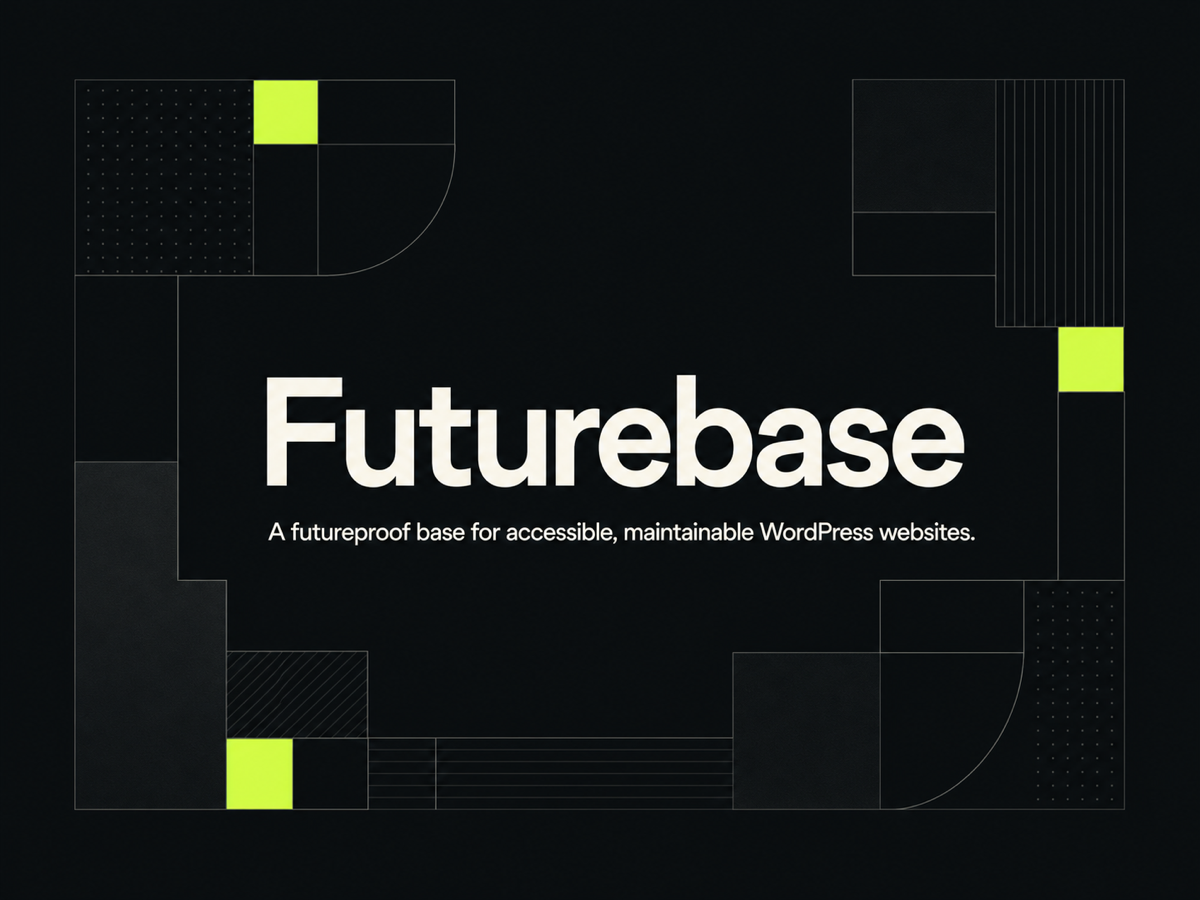
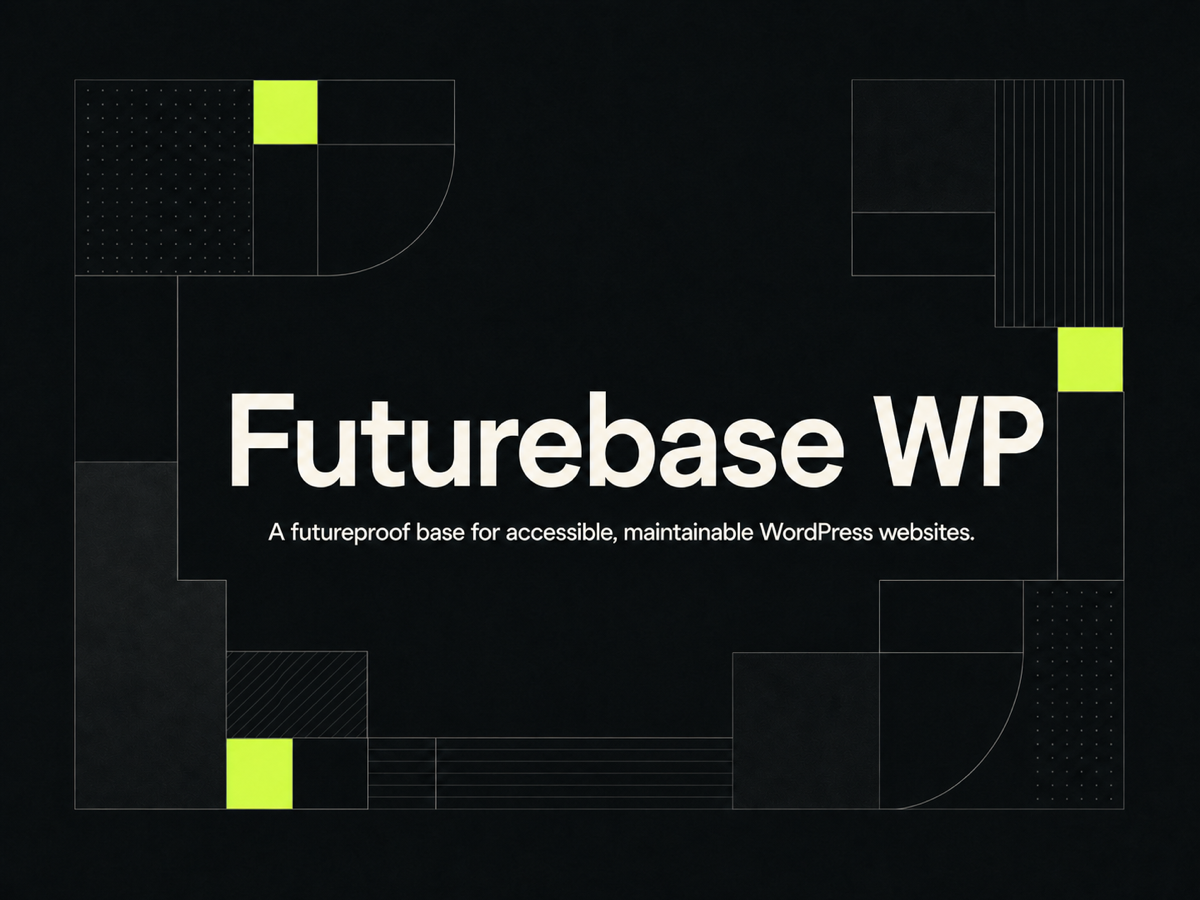
refactor: position WordPress product as Futurebase WP

Changed region(s): [[0.185, 0.4044, 0.8942, 0.5911], [0.74, 0.5911, 0.8017, 0.6222], [0.2467, 0.5911, 0.3083, 0.6222]]

diff --git a/style.css b/style.css
@@ -1,6 +1,6 @@
 /*
-Theme Name: Futurebase
-Theme URI: https://github.com/studiokicobi/futurebase
+Theme Name: Futurebase WP
+Theme URI: https://github.com/studiokicobi/futurebase-wp
 Author: Colin Lewis
 Author URI: https://colinlewis.se
 Description: A modern Full Site Editing foundation for managed/VPS WordPress hosting and current local development stacks. Targets PHP 8.3+ and WordPress 6.9+; not intended as a broad shared-hosting compatibility base.

diff --git a/functions.php b/functions.php
@@ -1,6 +1,6 @@
 <?php
 /**
- * Futurebase theme functions.
+ * Futurebase WP theme functions.
  *
  * @package futurebase
  */

diff --git a/docs/futurebase-company-site.md b/docs/futurebase-company-site.md
@@ -1,30 +1,48 @@
-# Futurebase company-site integration brief
+# Futurebase family and product-page integration brief
 
-Use [futurebase.md](futurebase.md) as the canonical product narrative. This
-brief adapts that source for the company site; it does not create a second set
-of product claims.
+Futurebase is the house brand. Futurebase WP is its WordPress product, alongside
+Futurebase Statamic and later products such as Futurebase Blocks and Futurebase
+AI. Use [futurebase-wp.md](futurebase-wp.md) as the canonical narrative for the
+WordPress product; this brief defines how that narrative fits into the broader
+company-site architecture.
 
-## Page metadata
+## Recommended information architecture
 
-- **Page title:** Futurebase — an accessible, maintainable WordPress foundation
-- **Meta description:** Futurebase is our futureproof Full Site Editing foundation for accessible, maintainable WordPress websites and evidence-driven delivery.
+### Family page: Futurebase
+
+- **Purpose:** Explain the shared product philosophy and route visitors to the
+  platform or capability that fits their project.
+- **Page title:** Futurebase — foundations for better digital products
+- **Positioning:** A family of in-house foundations, tools, and delivery systems
+  for accessible, maintainable digital work.
+- **Product navigation:** Futurebase WP, Futurebase Statamic, and clearly marked
+  future product slots for Blocks and AI. Do not present an unreleased product
+  as available.
+- **Primary CTA:** Talk to us about a project.
+
+The family page should stay platform-neutral. Accessibility, maintainability,
+performance discipline, and evidence-driven delivery are the common story;
+WordPress-specific architecture belongs on the Futurebase WP page.
+
+### Product page: Futurebase WP
+
+- **Page title:** Futurebase WP — an accessible, maintainable WordPress foundation
+- **Meta description:** Futurebase WP is our futureproof Full Site Editing foundation for accessible, maintainable WordPress websites and evidence-driven delivery.
 - **Primary CTA:** Talk to us about a WordPress project.
 
-## Recommended page structure
+#### Hero
 
-### Hero
-
-**Futurebase**
+**Futurebase WP**
 
 **A futureproof base for accessible, maintainable WordPress websites.**
 
-Futurebase is the in-house WordPress foundation behind our client work: a
+Futurebase WP is the in-house WordPress foundation behind our client work: a
 disciplined block-theme system, a reusable section library, and a delivery
 workflow that verifies quality continuously.
 
 CTA: **Talk to us about a WordPress project.**
 
-### Why it matters
+#### Why it matters
 
 - **Accessible by default.** Automated accessibility checks are part of the
   build and release workflow, with manual review included in project delivery.
@@ -33,37 +51,52 @@ CTA: **Talk to us about a WordPress project.**
   honest without publishing local-only scores as marketing claims.
 - **Maintainable for editors and developers.** Native blocks, curated editing,
   and design tokens reduce lock-in and keep design decisions consistent.
-- **Designed for where WordPress is going.** Futurebase uses Full Site Editing,
-  `theme.json`, patterns, and current WordPress APIs instead of a parallel page
-  builder stack.
+- **Designed for where WordPress is going.** Futurebase WP uses Full Site
+  Editing, `theme.json`, patterns, and current WordPress APIs instead of a
+  parallel page-builder stack.
 
-### How a project starts
+#### How a project starts
 
 Each awarded project receives its own private repository, theme identity, and
-version history. Futurebase supplies the tested foundation and lifecycle
-tooling; the delivered theme is branded for the client and carries only a
-single “Built on Futurebase” provenance note.
+version history. Futurebase WP supplies the tested WordPress foundation;
+Futurebase lifecycle tooling supplies the platform-neutral lead, promotion,
+baseline, metrics, and synchronization workflow. The delivered theme carries
+only one “Built on Futurebase WP” provenance note.
 
-### Evidence, not score theatre
+#### Evidence, not score theatre
 
-Futurebase captures baselines, runs regression gates, and supports before/after
-project reporting. Publish measurements only from an agreed public test target
-with its methodology and date. Never present local wp-env or CI regression
-numbers as public performance guarantees.
+Futurebase WP captures baselines, runs regression gates, and supports
+before/after project reporting. Publish measurements only from an agreed public
+test target with its methodology and date. Never present local wp-env or CI
+regression numbers as public performance guarantees.
+
+### Product page: Futurebase Statamic
+
+Give Futurebase Statamic its own canonical product narrative and
+platform-specific proof. Reuse the family principles and page architecture,
+not the WordPress copy or evidence.
+
+### Future product pages: Blocks and AI
+
+Reserve navigation and URL structure only when useful. Publish Futurebase
+Blocks and Futurebase AI pages when each offer has a concrete scope and
+evidence base.
 
 ## Assets
 
 - WordPress/theme screenshot: `screenshot.png` — 1200×900.
-- OpenGraph/social image: `docs/assets/futurebase-social.png` — 1200×630.
-- Both assets use the canonical tagline and a high-contrast charcoal, warm
-  white, and lime treatment.
+- OpenGraph/social image: `docs/assets/futurebase-wp-social.png` — 1200×630.
+- Both assets use the Futurebase WP wordmark, canonical tagline, and a
+  high-contrast charcoal, warm-white, and lime treatment.
 
 ## Editorial boundaries
 
-- Describe Futurebase as an in-house foundation, not a theme marketplace
+- Use **Futurebase** for the family and shared lifecycle system.
+- Use **Futurebase WP** for the WordPress foundation and its evidence.
+- Describe Futurebase WP as an in-house foundation, not a theme-marketplace
   product or page builder.
-- Do not imply that the source repository is public.
-- Do not promise universal shared-hosting compatibility; the stated baseline
-  is PHP 8.3+ and WordPress 6.9+.
+- Do not imply that any source repository is public.
+- Do not promise universal shared-hosting compatibility; the stated WordPress
+  baseline is PHP 8.3+ and WordPress 6.9+.
 - Keep detailed technical behavior and release notes in this repository; the
-  company page should focus on client outcomes and the evidence model.
+  company site should focus on client outcomes and the evidence model.

diff --git a/README.md b/README.md
@@ -1,9 +1,9 @@
 <!-- project-intro:start -->
-# Futurebase
+# Futurebase WP
 
 **A futureproof base for accessible, maintainable WordPress websites.**
 
-Futurebase is a modern Full Site Editing foundation with AI agent guardrails baked in. See [docs/futurebase.md](docs/futurebase.md) for the canonical product narrative and [docs/scorecard.md](docs/scorecard.md) for the evidence model behind it.
+Futurebase is the product family. Futurebase WP is its WordPress foundation: a modern Full Site Editing base with AI agent guardrails baked in. See [docs/futurebase-wp.md](docs/futurebase-wp.md) for the canonical product narrative and [docs/scorecard.md](docs/scorecard.md) for the evidence model behind it.
 <!-- project-intro:end -->
 
 ## What this is
@@ -47,7 +47,7 @@ and CI.
 Requires [`gh`](https://cli.github.com) authenticated (`gh auth login`). The template repo must have the **Template repository** setting enabled on GitHub.
 
 ```bash
-gh repo create studiokicobi/<new-project-name> --template studiokicobi/futurebase --private --clone
+gh repo create studiokicobi/<new-project-name> --template studiokicobi/futurebase-wp --private --clone
 cd <new-project-name>
 npm run rename -- <theme-slug> \
   --theme-name "<Theme Name>" \
@@ -99,8 +99,8 @@ The script performs the following edits in one pass:
 7. **Client version** — updates `style.css`, `readme.txt`, `package.json`, and both root-package version fields in `package-lock.json`.
 8. **Repository identity** — updates Theme URI, npm repository/homepage/bugs fields, and the Composer vendor/package when `--repository` is supplied.
 9. **`phpcs.xml.dist`** — updates the dashed text domain and snake-case prefix independently.
-10. **Client readme history** — resets `readme.txt` to one initial client release and leaves exactly one Futurebase provenance sentence in `README.md`.
-11. **Base-only product material** — removes the Futurebase narrative, company-site brief, social image, and branded theme screenshot from the client checkout while rewriting client-owned identity in `docs/`, `src/`, and `inc/`.
+10. **Client readme history** — resets `readme.txt` to one initial client release and leaves exactly one Futurebase WP provenance sentence in `README.md`.
+11. **Base-only product material** — removes the Futurebase WP narrative, company-site brief, social image, and branded theme screenshot from the client checkout while rewriting client-owned identity in `docs/`, `src/`, and `inc/`.
 
 Re-running the script with the same arguments is a no-op — the `Contributors:` line isn't duplicated, and already-renamed references don't match the search pattern.
 
@@ -109,7 +109,7 @@ After running, manually review:
 - **Directory on disk** — the theme folder name must equal the slug.
 - **`style.css`** — `Description`, `Author`, `Author URI`, and `Tags` remain project-specific review fields. If you skipped `--theme-uri` or `--contributors`, update those lines by hand too.
 - **`package.json`** — review the author after repository identity is set.
-- **`screenshot.png`** — add a client-branded theme screenshot; the Futurebase product screenshot is removed automatically.
+- **`screenshot.png`** — add a client-branded theme screenshot; the Futurebase WP product screenshot is removed automatically.
 - **`docs/conventions.md`** — starter-history prose was rewritten along with everything else; the text describing "the starter ships with the slug `futurebase`" will now name your slug. Adjust or delete as you like.
 - **Translation files** — regenerate `.pot` / `.mo` in `languages/` if you carry them over.
 

diff --git a/docs/futurebase-wp.md b/docs/futurebase-wp.md
@@ -1,11 +1,12 @@
-# Futurebase
+# Futurebase WP
 
 **A futureproof base for accessible, maintainable WordPress websites.**
 
-Futurebase is the in-house WordPress system every project here starts from. It
-is not a page builder and not a theme marketplace product — it is a disciplined
-block-theme foundation plus the delivery system around it, refined across real
-client work and measured on every commit.
+Futurebase WP is the WordPress product in the Futurebase family. It is the
+in-house system every WordPress project here starts from: not a page builder or
+theme-marketplace product, but a disciplined block-theme foundation plus the
+delivery system around it, refined across real client work and measured on
+every commit.
 
 ## The promise
 
@@ -16,7 +17,7 @@ client work and measured on every commit.
   System font stacks, fluid typography, deferred scripts, no framework bloat.
 - **Maintainable.** Everything an editor changes lives in WordPress itself —
   native block editing, curated to the project's own design system. No
-  proprietary builder, no lock-in: when core WordPress updates, Futurebase
+  proprietary builder, no lock-in: when core WordPress updates, Futurebase WP
   sites update with it.
 - **Futureproof.** Built on WordPress's own Full Site Editing architecture
   (PHP 8.3+, WordPress 6.9+), the direction core is actively investing in —
@@ -71,5 +72,6 @@ premium SEO plugin when a project scopes one. See [seo.md](seo.md).
 
 ---
 
-*Futurebase is developed by Colin Lewis. The template repository's technical
-slug is `futurebase`; client projects carry their own identity from day one.*
+*Futurebase WP is developed by Colin Lewis as part of the Futurebase family.
+The template repository's technical slug is `futurebase`; client projects
+carry their own identity from day one.*

diff --git a/docs/navigation-migration-v2.md b/docs/navigation-migration-v2.md
@@ -55,7 +55,7 @@ The migration state lives in the renamed equivalent of
 and `last_error`. The obsolete `futurebase_navigation_seeded` option is removed
 only after both regions are valid.
 
-For pre-2.0 Futurebase installations, debugging data may still use the protected
+For pre-2.0 Futurebase WP installations, debugging data may still use the protected
 post-meta key `_wp_starter_navigation_migration`. The PHP constant name was
 never persisted; only this lowercase meta key can remain in an older database.
 No automated database conversion is required for the disposable base install.

diff --git a/tools/project-system/README.md b/tools/project-system/README.md
@@ -234,5 +234,5 @@ commands are the cross-project meta layer. Lead **data** always lives outside
 the starter, under `~/Sites/leads/<slug>/`.
 
 `bin/rename-theme.sh` deliberately does **not** scan `tools/` — the templates
-here carry literal `futurebase` / `studiokicobi/futurebase` references that are
+here carry literal `futurebase` / `studiokicobi/futurebase-wp` references that are
 the starter's identity, not client slugs to rewrite.

diff --git a/docs/process/site-building-workflow.md b/docs/process/site-building-workflow.md
@@ -20,7 +20,7 @@ Content readiness is gated the same way: the client's launch content is prepared
 
 ```bash
 cd ~/Sites
-gh repo create studiokicobi/<slug> --template studiokicobi/futurebase --private --clone
+gh repo create studiokicobi/<slug> --template studiokicobi/futurebase-wp --private --clone
 cd <slug>
 npm run rename -- <slug>
 npm install && composer install

diff --git a/docs/scorecard.md b/docs/scorecard.md
@@ -1,6 +1,6 @@
 # Scorecard
 
-Futurebase measures itself. Every scorecard run imports a deterministic demo
+Futurebase WP measures itself. Every scorecard run imports a deterministic demo
 fixture, then audits one URL per shipped template family with Lighthouse
 (mobile + desktop) and pa11y (WCAG 2.1 AA, desktop + mobile viewports).
 
